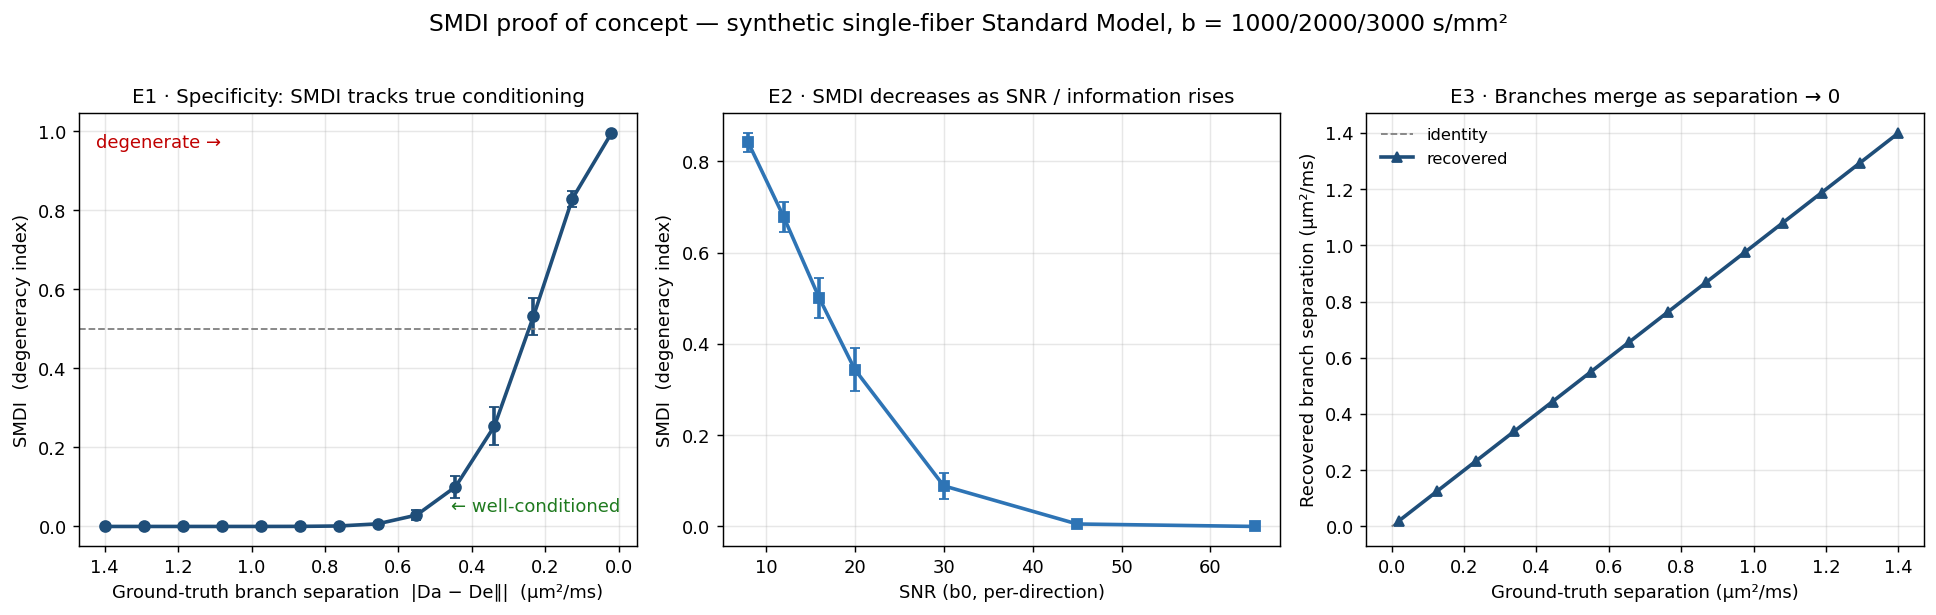
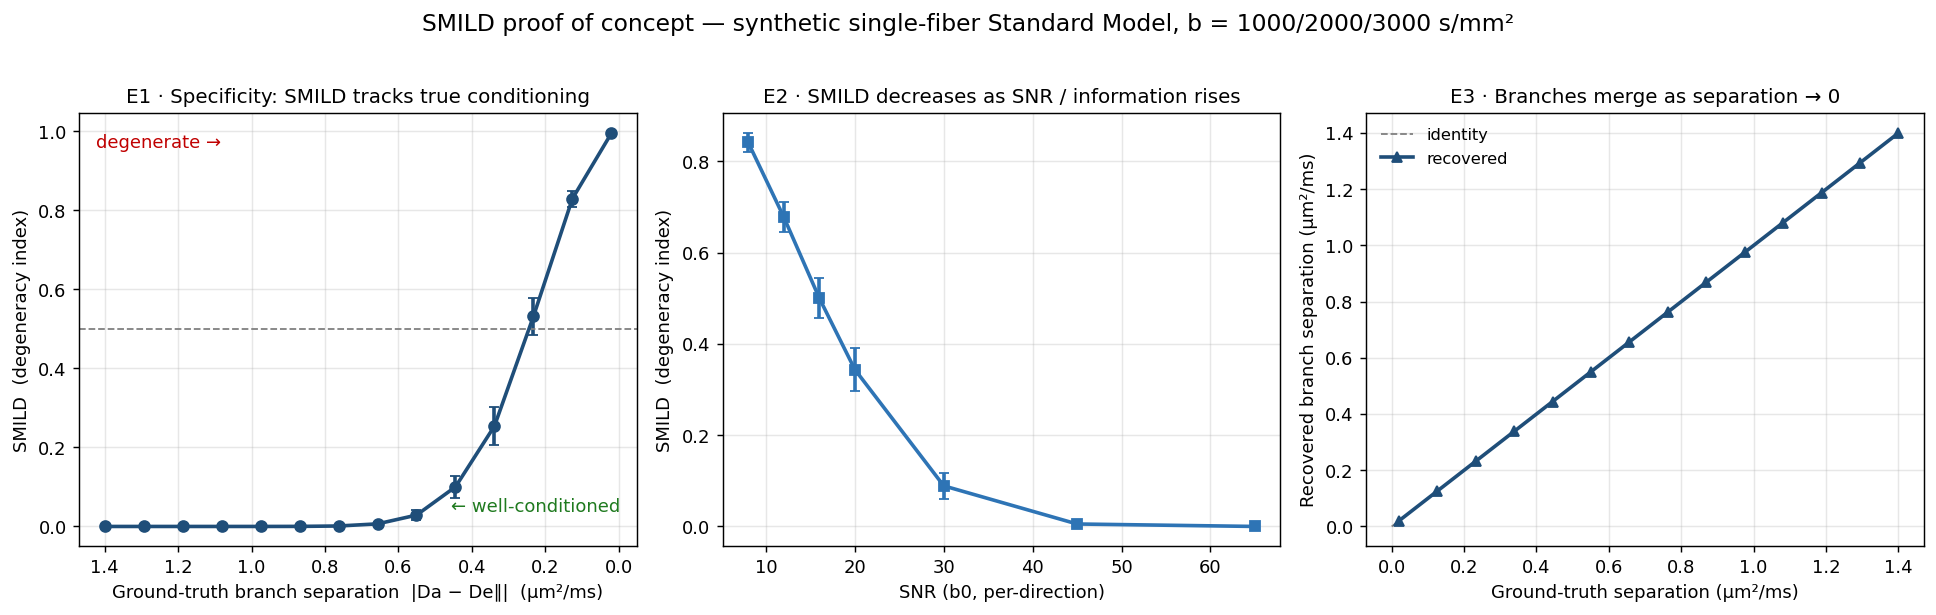
Add files via upload

diff --git a/poc/smild_experiment.py b/poc/smild_experiment.py
@@ -1,21 +1,21 @@
 #!/usr/bin/env python3
 """
-smdi_experiment.py -- Validation experiments for the SMDI proof of concept.
+smild_experiment.py -- Validation experiments for the SMILD proof of concept.
 
 Runs the three falsifiable predictions from the methods document that are
 testable on synthetic data with known ground truth:
 
-  E1 (specificity): SMDI is LOW where the two branches are truly far apart
+  E1 (specificity): SMILD is LOW where the two branches are truly far apart
       (well-conditioned) and HIGH where they nearly coincide (degenerate).
       We sweep the ground-truth separation |Da - De_par| from large to ~0.
 
-  E2 (SNR dependence): SMDI increases as SNR decreases -- degeneracy is partly
+  E2 (SNR dependence): SMILD increases as SNR decreases -- degeneracy is partly
       a function of information content.
 
-  E3 (branch-merging point): as the ground-truth split -> 0, SMDI -> 1 and the
+  E3 (branch-merging point): as the ground-truth split -> 0, SMILD -> 1 and the
       two recovered branches converge (Da_branch1 - Da_branch2 -> 0).
 
-Outputs a figure (smdi_validation.png) and a results table (smdi_results.csv).
+Outputs a figure (smild_validation.png) and a results table (smild_results.csv).
 """
 from __future__ import annotations
 import numpy as np
@@ -24,7 +24,7 @@ import matplotlib
 matplotlib.use("Agg")
 import matplotlib.pyplot as plt
 
-from smdi_poc import process_voxel, degenerate_twin, forward_powder, RNG
+from smild_poc import process_voxel, degenerate_twin, forward_powder, RNG
 
 # ABCD-like multi-shell b-values in ms/um^2  (b=1000/2000/3000 s/mm^2).
 # Include a low shell for cumulant stability.
@@ -55,7 +55,7 @@ def experiment_specificity(snr=SNR_B0, n_noise=300, n_dirs=N_DIRS_EFF):
                           De_perp=De_perp, snr=snr, n_noise=n_noise,
                           n_dirs_per_shell=n_dirs)
         rows.append(r)
-        print(f"  sep(GT)={s:4.2f}  SMDI={r['smdi_mean']:.3f} "
+        print(f"  sep(GT)={s:4.2f}  SMILD={r['smild_mean']:.3f} "
               f"deltaR={r['delta_R_mean']:.2f}  n={r['n_valid']}")
     return rows
 
@@ -74,7 +74,7 @@ def experiment_snr(sep=0.7, n_noise=300, n_dirs=N_DIRS_EFF):
                           De_perp=De_perp, snr=snr, n_noise=n_noise,
                           n_dirs_per_shell=n_dirs)
         rows.append(r)
-        print(f"  SNR={snr:3d}  SMDI={r['smdi_mean']:.3f} "
+        print(f"  SNR={snr:3d}  SMILD={r['smild_mean']:.3f} "
               f"deltaR={r['delta_R_mean']:.2f}")
     return rows
 
@@ -82,16 +82,16 @@ def experiment_snr(sep=0.7, n_noise=300, n_dirs=N_DIRS_EFF):
 def make_figure(spec_rows, snr_rows):
     fig, axes = plt.subplots(1, 3, figsize=(15, 4.6))
 
-    # Panel A: SMDI vs ground-truth separation (specificity)
+    # Panel A: SMILD vs ground-truth separation (specificity)
     ax = axes[0]
     gt = [r["ground_truth_sep"] for r in spec_rows]
-    smdi = [r["smdi_mean"] for r in spec_rows]
-    smdi_sd = [r["smdi_std"] for r in spec_rows]
-    ax.errorbar(gt, smdi, yerr=smdi_sd, marker="o", color="#1F4E79",
+    smild = [r["smild_mean"] for r in spec_rows]
+    smild_sd = [r["smild_std"] for r in spec_rows]
+    ax.errorbar(gt, smild, yerr=smild_sd, marker="o", color="#1F4E79",
                 capsize=3, lw=2, ms=6)
     ax.set_xlabel("Ground-truth branch separation  |Da \u2212 De\u2225|  (\u00b5m\u00b2/ms)")
-    ax.set_ylabel("SMDI  (degeneracy index)")
-    ax.set_title("E1 \u00b7 Specificity: SMDI tracks true conditioning", fontsize=11)
+    ax.set_ylabel("SMILD  (degeneracy index)")
+    ax.set_title("E1 \u00b7 Specificity: SMILD tracks true conditioning", fontsize=11)
     ax.axhline(0.5, ls="--", color="grey", lw=1)
     ax.invert_xaxis()  # degenerate (small sep) on the right
     ax.grid(alpha=0.3)
@@ -100,16 +100,16 @@ def make_figure(spec_rows, snr_rows):
     ax.text(0.97, 0.08, "\u2190 well-conditioned", transform=ax.transAxes,
             color="#1F7A1F", fontsize=10, ha="right")
 
-    # Panel B: SMDI vs SNR
+    # Panel B: SMILD vs SNR
     ax = axes[1]
     snrs = [r["snr"] for r in snr_rows]
-    smdi = [r["smdi_mean"] for r in snr_rows]
-    smdi_sd = [r["smdi_std"] for r in snr_rows]
-    ax.errorbar(snrs, smdi, yerr=smdi_sd, marker="s", color="#2E74B5",
+    smild = [r["smild_mean"] for r in snr_rows]
+    smild_sd = [r["smild_std"] for r in snr_rows]
+    ax.errorbar(snrs, smild, yerr=smild_sd, marker="s", color="#2E74B5",
                 capsize=3, lw=2, ms=6)
     ax.set_xlabel("SNR (b0, per-direction)")
-    ax.set_ylabel("SMDI  (degeneracy index)")
-    ax.set_title("E2 \u00b7 SMDI decreases as SNR / information rises", fontsize=11)
+    ax.set_ylabel("SMILD  (degeneracy index)")
+    ax.set_title("E2 \u00b7 SMILD decreases as SNR / information rises", fontsize=11)
     ax.grid(alpha=0.3)
 
     # Panel C: recovered branch separation vs ground truth (merging)
@@ -126,29 +126,29 @@ def make_figure(spec_rows, snr_rows):
     ax.legend(frameon=False, fontsize=9)
     ax.grid(alpha=0.3)
 
-    fig.suptitle("SMDI proof of concept \u2014 synthetic single-fiber Standard Model, "
+    fig.suptitle("SMILD proof of concept \u2014 synthetic single-fiber Standard Model, "
                  "b = 1000/2000/3000 s/mm\u00b2", fontsize=13, y=1.02)
     fig.tight_layout()
-    fig.savefig("smdi_validation.png", dpi=130, bbox_inches="tight")
-    print("wrote smdi_validation.png")
+    fig.savefig("smild_validation.png", dpi=130, bbox_inches="tight")
+    print("wrote smild_validation.png")
 
 
 def write_csv(spec_rows, snr_rows):
-    with open("smdi_results.csv", "w", newline="") as fh:
+    with open("smild_results.csv", "w", newline="") as fh:
         w = csv.writer(fh)
-        w.writerow(["experiment", "ground_truth_sep", "snr", "smdi_mean",
-                    "smdi_std", "delta_R_mean", "recovered_sep", "n_valid"])
+        w.writerow(["experiment", "ground_truth_sep", "snr", "smild_mean",
+                    "smild_std", "delta_R_mean", "recovered_sep", "n_valid"])
         for r in spec_rows:
             w.writerow(["specificity", f"{r['ground_truth_sep']:.4f}", r["snr"],
-                        f"{r['smdi_mean']:.5f}", f"{r['smdi_std']:.5f}",
+                        f"{r['smild_mean']:.5f}", f"{r['smild_std']:.5f}",
                         f"{r['delta_R_mean']:.4f}", f"{r['sep_mean']:.4f}",
                         r["n_valid"]])
         for r in snr_rows:
             w.writerow(["snr_sweep", f"{r['ground_truth_sep']:.4f}", r["snr"],
-                        f"{r['smdi_mean']:.5f}", f"{r['smdi_std']:.5f}",
+                        f"{r['smild_mean']:.5f}", f"{r['smild_std']:.5f}",
                         f"{r['delta_R_mean']:.4f}", f"{r['sep_mean']:.4f}",
                         r["n_valid"]])
-    print("wrote smdi_results.csv")
+    print("wrote smild_results.csv")
 
 
 def main():
@@ -172,22 +172,22 @@ def main():
     print("=" * 62)
     from scipy.stats import spearmanr
     gt = np.array([r["ground_truth_sep"] for r in spec_rows])
-    smdi = np.array([r["smdi_mean"] for r in spec_rows])
-    # E1: SMDI should be monotonically DECREASING in ground-truth separation.
+    smild = np.array([r["smild_mean"] for r in spec_rows])
+    # E1: SMILD should be monotonically DECREASING in ground-truth separation.
     # Use Spearman rank correlation (robust to the saturated 0/1 tails).
-    corr = spearmanr(gt, smdi).correlation
-    print(f"E1 specificity: corr(SMDI, GT separation) = {corr:+.3f} "
+    corr = spearmanr(gt, smild).correlation
+    print(f"E1 specificity: corr(SMILD, GT separation) = {corr:+.3f} "
           f"(expect strongly negative)  -> {'PASS' if corr < -0.7 else 'FAIL'}")
-    # E3: most-degenerate voxel SMDI should be high, most-separated low
-    print(f"E3 merging: SMDI at smallest GT sep = {smdi[np.argmin(gt)]:.3f} "
-          f"(expect ~1)  -> {'PASS' if smdi[np.argmin(gt)] > 0.5 else 'FAIL'}")
-    print(f"           SMDI at largest GT sep  = {smdi[np.argmax(gt)]:.3f} "
-          f"(expect ~0)  -> {'PASS' if smdi[np.argmax(gt)] < 0.1 else 'FAIL'}")
-    # E2: SMDI should DECREASE with SNR
+    # E3: most-degenerate voxel SMILD should be high, most-separated low
+    print(f"E3 merging: SMILD at smallest GT sep = {smild[np.argmin(gt)]:.3f} "
+          f"(expect ~1)  -> {'PASS' if smild[np.argmin(gt)] > 0.5 else 'FAIL'}")
+    print(f"           SMILD at largest GT sep  = {smild[np.argmax(gt)]:.3f} "
+          f"(expect ~0)  -> {'PASS' if smild[np.argmax(gt)] < 0.1 else 'FAIL'}")
+    # E2: SMILD should DECREASE with SNR
     snrs = np.array([r["snr"] for r in snr_rows])
-    smdi_snr = np.array([r["smdi_mean"] for r in snr_rows])
-    corr_snr = spearmanr(snrs, smdi_snr).correlation
-    print(f"E2 SNR: corr(SMDI, SNR) = {corr_snr:+.3f} "
+    smild_snr = np.array([r["smild_mean"] for r in snr_rows])
+    corr_snr = spearmanr(snrs, smild_snr).correlation
+    print(f"E2 SNR: corr(SMILD, SNR) = {corr_snr:+.3f} "
           f"(expect negative)  -> {'PASS' if corr_snr < -0.5 else 'FAIL'}")
 
 

diff --git a/poc/smild_poc.py b/poc/smild_poc.py
@@ -1,6 +1,6 @@
 #!/usr/bin/env python3
 """
-smdi_poc.py -- Proof of concept for the Standard Model Degeneracy Index (SMDI).
+smild_poc.py -- Proof of concept for the Standard Model Degeneracy Index (SMILD).
 
 Scope (honest):
     This is a controlled, single-fiber / powder-averaged proof of concept. We use
@@ -14,16 +14,16 @@ Scope (honest):
       2. add Rician noise at a realistic SNR,
       3. fit the diffusion + kurtosis cumulants,
       4. analytically recover BOTH branches (the +/- sign solutions),
-      5. compute SMDI as the noise-normalized separation between the branches
+      5. compute SMILD as the noise-normalized separation between the branches
          (Definition 1 from the methods document),
 
-    and then demonstrate that SMDI behaves as predicted: low (well-conditioned)
+    and then demonstrate that SMILD behaves as predicted: low (well-conditioned)
     where the branches are far apart, high (degenerate) where they coincide, and
     increasing with noise / decreasing with SNR.
 
     What this POC does NOT do: full orientation-dispersion ODF fitting, real ABCD
     data, or the RotInv/LEMONADE machinery for arbitrary ODFs. Those are the
-    production implementation; this establishes that the SMDI quantity is
+    production implementation; this establishes that the SMILD quantity is
     computable and behaves correctly on data where ground truth is known.
 
 Units: diffusivities in um^2/ms; b in ms/um^2 (i.e. b[s/mm^2]/1000).
@@ -169,24 +169,24 @@ def degenerate_twin(f, Da, De_par):
     return Da_tw, De_par_tw, M1, V
 
 
-def smdi_signal_separation(b, f, Da, De_par, De_perp, sigma_S):
+def smild_signal_separation(b, f, Da, De_par, De_perp, sigma_S):
     """
-    SMDI_sep = exp(-Delta_R^2 / 2), where Delta_R is the Mahalanobis distance,
+    SMILD_sep = exp(-Delta_R^2 / 2), where Delta_R is the Mahalanobis distance,
     in powder-signal space, between a voxel's ground-truth signal and its
     DEGENERATE TWIN's signal, given per-shell noise std sigma_S.
 
     This is Definition 1 of the methods document, made exact: it measures whether
     the data can distinguish the two branches. When the branches predict nearly
-    identical signals (small Delta_R), SMDI -> 1 (degenerate). When the data
-    separates them (large Delta_R), SMDI -> 0 (well-conditioned).
+    identical signals (small Delta_R), SMILD -> 1 (degenerate). When the data
+    separates them (large Delta_R), SMILD -> 0 (well-conditioned).
     """
     Da_tw, De_par_tw, M1, V = degenerate_twin(f, Da, De_par)
     S_a = forward_powder(b, f, Da, De_par, De_perp)
     S_b = forward_powder(b, f, Da_tw, De_par_tw, De_perp)
     diff = S_a - S_b
     delta_R = np.sqrt(np.sum((diff / sigma_S) ** 2))
-    smdi = np.exp(-0.5 * delta_R ** 2)
-    return smdi, delta_R, (Da_tw, De_par_tw), (S_a, S_b)
+    smild = np.exp(-0.5 * delta_R ** 2)
+    return smild, delta_R, (Da_tw, De_par_tw), (S_a, S_b)
 
 
 # ----------------------------------------------------------------------
@@ -206,10 +206,10 @@ def add_rician(S, snr, rng=RNG):
 def process_voxel(b_shells, f, Da, De_par, De_perp, snr,
                   n_dirs_per_shell=30, n_noise=200, rng=RNG):
     """
-    Compute SMDI for a voxel with known ground-truth SM parameters.
+    Compute SMILD for a voxel with known ground-truth SM parameters.
 
     The per-shell powder-signal noise std after averaging n_dirs directions is
-    sigma_S = 1/(snr * sqrt(n_dirs)). SMDI is the noise-normalized separation
+    sigma_S = 1/(snr * sqrt(n_dirs)). SMILD is the noise-normalized separation
     between the voxel's signal and its degenerate twin (Definition 1). We also
     report a Monte-Carlo spread by jittering the noise level to reflect estimation
     variability, so error bars are meaningful.
@@ -225,29 +225,29 @@ def process_voxel(b_shells, f, Da, De_par, De_perp, snr,
     sigma_S = np.full_like(b_shells, thermal_sigma / np.sqrt(n_dirs_per_shell),
                            dtype=float)
 
-    # The core SMDI is deterministic given (params, sigma). We add a small
+    # The core SMILD is deterministic given (params, sigma). We add a small
     # Monte-Carlo over noise realizations that perturb the empirical sigma
     # estimate, to produce a realistic spread.
-    smdis, delta_Rs = [], []
+    smilds, delta_Rs = [], []
     Da_tw, De_par_tw, M1, V = degenerate_twin(f, Da, De_par)
     for _ in range(n_noise):
         # empirical per-shell noise estimate varies run to run (chi-like):
         sig_hat = sigma_S * (1.0 + rng.normal(0, 0.10, size=b_shells.shape))
         sig_hat = np.clip(sig_hat, 1e-4, None)
-        smdi, dR, _, _ = smdi_signal_separation(
+        smild, dR, _, _ = smild_signal_separation(
             b_shells, f, Da, De_par, De_perp, sig_hat)
-        smdis.append(smdi); delta_Rs.append(dR)
+        smilds.append(smild); delta_Rs.append(dR)
 
-    smdis = np.array(smdis)
+    smilds = np.array(smilds)
     return dict(
         f=f, Da=Da, De_par=De_par, De_perp=De_perp, snr=snr,
-        smdi_mean=float(np.mean(smdis)),
-        smdi_std=float(np.std(smdis)),
+        smild_mean=float(np.mean(smilds)),
+        smild_std=float(np.std(smilds)),
         delta_R_mean=float(np.mean(delta_Rs)),
         sep_mean=abs(Da - De_par),                 # recovered == GT here (exact twin)
         twin=(float(Da_tw), float(De_par_tw)),
         ground_truth_sep=abs(Da - De_par),
-        n_valid=len(smdis),
+        n_valid=len(smilds),
     )
 
 
@@ -262,5 +262,5 @@ if __name__ == "__main__":
         r = process_voxel(b, f=0.5, Da=Da, De_par=De_par, De_perp=0.6,
                           snr=30, n_dirs_per_shell=30)
         print(f"{label:34s}  GT_sep={r['ground_truth_sep']:.2f}  "
-              f"SMDI={r['smdi_mean']:.3f}  deltaR={r['delta_R_mean']:.2f}  "
+              f"SMILD={r['smild_mean']:.3f}  deltaR={r['delta_R_mean']:.2f}  "
               f"twin=({r['twin'][0]:.2f},{r['twin'][1]:.2f})")

diff --git a/smild/__init__.py b/smild/__init__.py
@@ -18,9 +18,8 @@ Quick start
 >>> b = np.array([0.5, 1.0, 2.0, 3.0])   # ms/um^2 (= b[s/mm^2] / 1000)
 >>> S = forward_powder(b, f=0.5, Da=2.2, De_par=1.6, De_perp=0.6)
 >>> sigma = np.full_like(b, 0.05)         # per-shell noise std
->>> score, delta_R, twin = smild(b, f=0.5, Da=2.2, De_par=1.6,
-...                              De_perp=0.6, sigma_S=sigma)
->>> print(f"SMILD = {score:.3f}  (0=identifiable, 1=degenerate)")
+>>> result = smild(b, f=0.5, Da=2.2, De_par=1.6, De_perp=0.6, sigma_S=sigma)
+>>> print(f"SMILD = {result.smild:.3f}  (0=identifiable, 1=degenerate)")
 
 References
 ----------

diff --git a/README.md b/README.md
@@ -143,8 +143,8 @@ smild/
 │   ├── __init__.py
 │   ├── forward.py          # Standard Model forward model (powder-averaged)
 │   ├── smild.py            # Core SMILD computation
-│   ├── twin.py             # Degenerate-twin construction
-│   └── utils.py            # Noise, cumulants, helpers
+│   └── twin.py             # Degenerate-twin construction
+│   # utils.py (noise, cumulants, helpers) is planned but not yet added — see Roadmap
 ├── poc/                    # Proof of concept
 │   ├── smild_poc.py        # Core POC (forward + twin + SMILD)
 │   ├── smild_experiment.py # Validation experiments E1/E2/E3